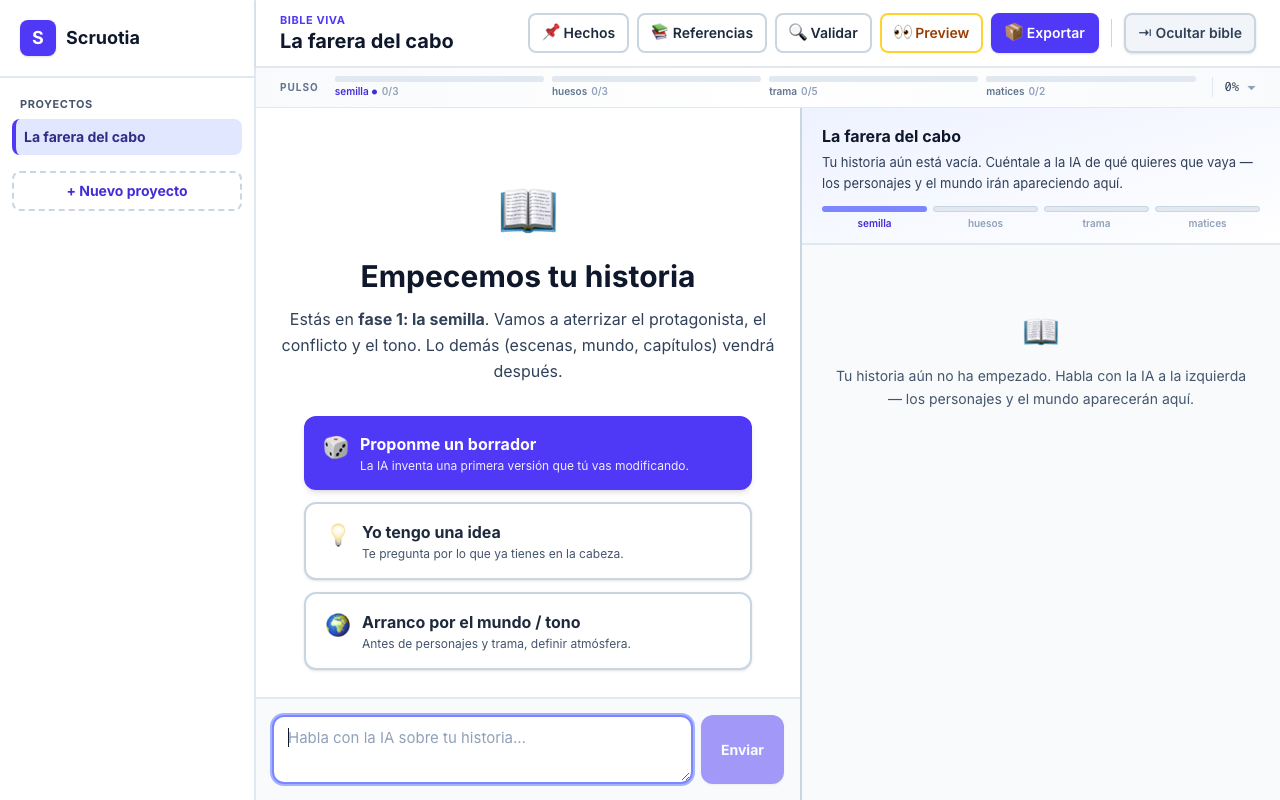
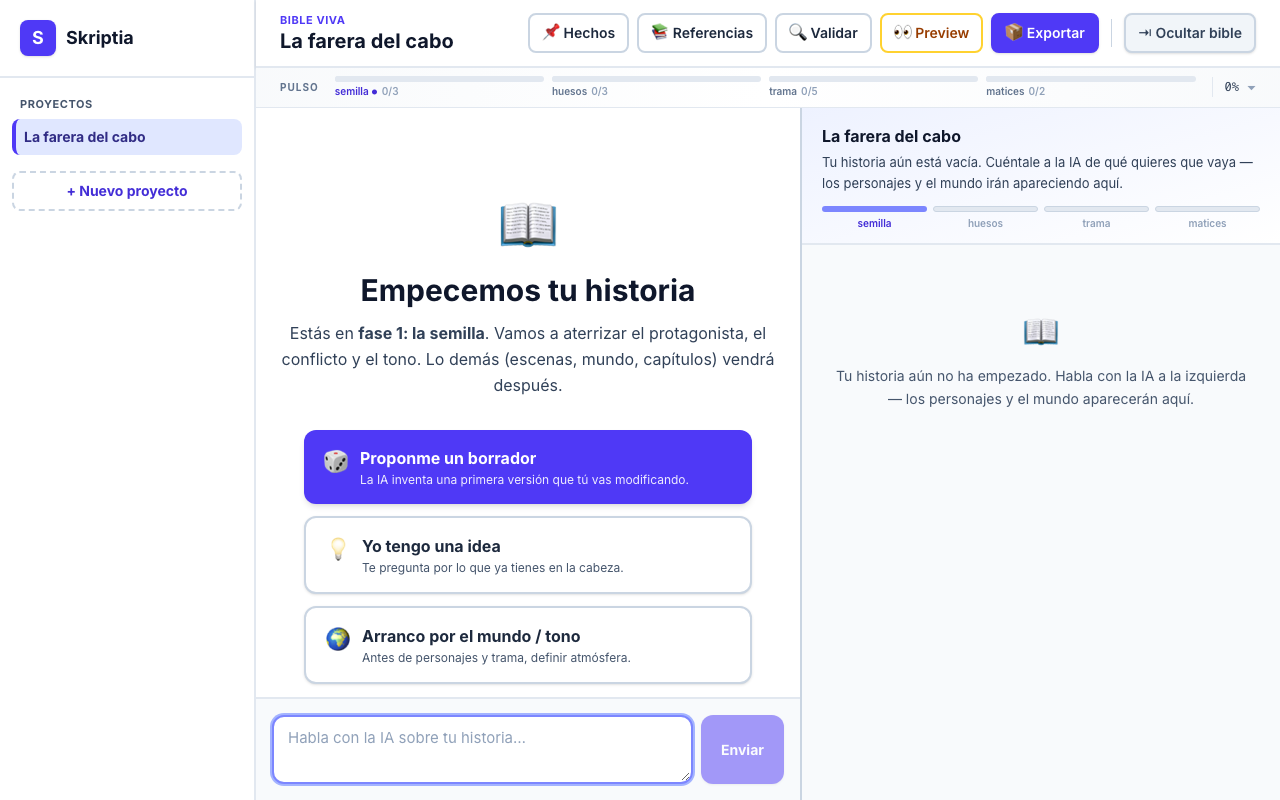
Rename project to Skriptia
Rename the app, fenced block protocol (~~~skriptia-*), drag-and-drop MIME
type and SKRIPTIA_PROJECTS_DIR env var, and refresh the README screenshot.

diff --git a/app/components/ChatColumn.tsx b/app/components/ChatColumn.tsx
@@ -57,9 +57,9 @@ function applyingSummary(c: { cards: number; patches: number; links: number; del
 function stripBlocks(text: string): string {
   let display = text
     // Status events injected by the server (applying / done / error).
-    .replace(/\n?~~~scruotia-status\n[\s\S]*?\n~~~\n?/g, '')
+    .replace(/\n?~~~skriptia-status\n[\s\S]*?\n~~~\n?/g, '')
     // Fenced protocol (preferred since v4).
-    .replace(/(?:^|\n)\s*~~~\s*scruotia-(?:card|patch|link|delete|fact|suggest)\b[\s\S]*?\n\s*~~~(?=\s*(?:\n|$))/g, '')
+    .replace(/(?:^|\n)\s*~~~\s*skriptia-(?:card|patch|link|delete|fact|suggest)\b[\s\S]*?\n\s*~~~(?=\s*(?:\n|$))/g, '')
     // Legacy <<<…>>> protocol (tolerant to 2+ chevrons).
     .replace(/<{2,}\s*CARD\s*:\s*[^:/<>\n]+?\s*:\s*[^:/<>\n]+?\s*>{2,}[\s\S]*?<{2,}\s*END\s*>{2,}/g, '')
     .replace(/<{2,}\s*PATCH\s*:\s*[^:/<>\n]+?\s*:\s*[^:/<>\n]+?\s*>{2,}[\s\S]*?<{2,}\s*END\s*>{2,}/g, '')
@@ -70,7 +70,7 @@ function stripBlocks(text: string): string {
     .replace(/<{2,}\s*DOC(?:\s*:\s*[^<>]+?)?\s*>{2,}[\s\S]*?<{2,}\s*END\s*>{2,}/g, '');
   // While streaming, also hide a trailing unterminated block start so the
   // user never sees half a block. Both fence opener and legacy start.
-  const openFence = display.search(/(?:^|\n)\s*~~~\s*scruotia-/);
+  const openFence = display.search(/(?:^|\n)\s*~~~\s*skriptia-/);
   if (openFence !== -1 && !/\n\s*~~~\s*(?:\n|$)/.test(display.slice(openFence + 1))) {
     display = display.slice(0, openFence);
   }
@@ -140,11 +140,11 @@ export default function ChatColumn({
     const reader = res.body.getReader();
     const decoder = new TextDecoder();
     let acc = '';
-    // Status events injected by the server: ~~~scruotia-status\n{json}\n~~~
+    // Status events injected by the server: ~~~skriptia-status\n{json}\n~~~
     // When we see "applying" we free the input so the user can type the next
     // turn while disk writes finish. When we see "done" we pop the success
     // pills with the real touched ids.
-    const STATUS_RE = /\n?~~~scruotia-status\n([\s\S]*?)\n~~~\n?/g;
+    const STATUS_RE = /\n?~~~skriptia-status\n([\s\S]*?)\n~~~\n?/g;
     let serverTouched: string[] = [];
     let serverDeletes: string[] = [];
     let serverFacts = 0;
@@ -192,7 +192,7 @@ export default function ChatColumn({
     // consistent with extractEntityUpdates() (whitespace + accents allowed).
     const cardMatches = [...acc.matchAll(/<{2,}\s*CARD\s*:\s*([^:/<>\n]+?)\s*:\s*([^:/<>\n]+?)\s*>{2,}/g)];
     const patchMatches = [...acc.matchAll(/<{2,}\s*PATCH\s*:\s*([^:/<>\n]+?)\s*:\s*([^:/<>\n]+?)\s*>{2,}/g)];
-    const fenceMatches = [...acc.matchAll(/(?:^|\n)\s*~~~\s*scruotia-(card|patch)\s+([^:\s]+?)\s*:\s*([^\s\n]+)/g)];
+    const fenceMatches = [...acc.matchAll(/(?:^|\n)\s*~~~\s*skriptia-(card|patch)\s+([^:\s]+?)\s*:\s*([^\s\n]+)/g)];
     const normalize = (s: string) => s.toLowerCase().normalize('NFD').replace(/[̀-ͯ]/g, '').replace(/[^a-z0-9]+/g, '-').replace(/^-+|-+$/g, '');
     const touched = Array.from(new Set([
       ...cardMatches.map(m => `${normalize(m[1])}/${normalize(m[2])}`),
@@ -201,12 +201,12 @@ export default function ChatColumn({
     ].filter(s => s !== '/')));
     const deletes = Array.from(new Set([
       ...[...acc.matchAll(/<{2,}\s*DELETE\s*:\s*([^:/<>\n]+?)\s*\/\s*([^:/<>\n]+?)\s*>{2,}/g)].map(m => `${normalize(m[1])}/${normalize(m[2])}`),
-      ...[...acc.matchAll(/(?:^|\n)\s*~~~\s*scruotia-delete\s+([^/\s]+)\/([^\s\n]+)/g)].map(m => `${normalize(m[1])}/${normalize(m[2])}`),
+      ...[...acc.matchAll(/(?:^|\n)\s*~~~\s*skriptia-delete\s+([^/\s]+)\/([^\s\n]+)/g)].map(m => `${normalize(m[1])}/${normalize(m[2])}`),
     ].filter(s => s !== '/')));
     const factCount = [...acc.matchAll(/<{2,}\s*FACT\s*>{2,}/g)].length
-      + [...acc.matchAll(/(?:^|\n)\s*~~~\s*scruotia-fact\b/g)].length;
+      + [...acc.matchAll(/(?:^|\n)\s*~~~\s*skriptia-fact\b/g)].length;
     const legacySuggestions = [...acc.matchAll(/<{2,}\s*SUGGEST\s*>{2,}([\s\S]*?)<{2,}\s*END\s*>{2,}/g)];
-    const fenceSuggestions = [...acc.matchAll(/(?:^|\n)\s*~~~\s*scruotia-suggest\b[^\n]*\n([\s\S]*?)\n\s*~~~/g)];
+    const fenceSuggestions = [...acc.matchAll(/(?:^|\n)\s*~~~\s*skriptia-suggest\b[^\n]*\n([\s\S]*?)\n\s*~~~/g)];
     const suggestionList: Suggestion[] = [...legacySuggestions, ...fenceSuggestions]
       .map(m => m[1].trim())
       .filter(Boolean)

diff --git a/app/api/chat/route.ts b/app/api/chat/route.ts
@@ -207,7 +207,7 @@ Usamos **fences markdown** (\`~~~\`) para todos los bloques. Es lo más robusto:
 
 ═══ CARD — crear o reemplazar una entidad ═══
 
-~~~scruotia-card type:slug
+~~~skriptia-card type:slug
 name=Nombre legible
 icon=emoji opcional
 ---
@@ -221,7 +221,7 @@ icon=emoji opcional
 
 ═══ PATCH — modificar solo algunos campos sin tocar el resto ═══
 
-~~~scruotia-patch type:slug
+~~~skriptia-patch type:slug
 Want=Que la dejen en paz
 Need=Aceptar que necesita a alguien
 ~~~
@@ -238,7 +238,7 @@ REGLAS:
    - \`__trailing\` = prosa libre tras los bullets
 4. Para valores MULTI-LÍNEA usa heredoc \`<<<\` … \`>>>\` (cada delimitador en su línea):
 
-~~~scruotia-patch personaje:mara
+~~~skriptia-patch personaje:mara
 backstory=<<<
 Antes de que Tito llegara al faro,
 Mara nunca había enseñado a nadie el oficio.
@@ -255,7 +255,7 @@ Cuándo PATCH vs CARD:
 
 ═══ LINK — vincular dos entidades ═══
 
-~~~scruotia-link personaje/mara lugar/faro
+~~~skriptia-link personaje/mara lugar/faro
 label=vive en
 ~~~
 
@@ -263,18 +263,18 @@ label=vive en
 
 ═══ DELETE — borrar una entidad creada por error ═══
 
-~~~scruotia-delete personaje/x
+~~~skriptia-delete personaje/x
 ~~~
 
 ═══ FACT — hecho INMUTABLE del proyecto (edades, distancias, reglas que nunca cambian) ═══
 
-~~~scruotia-fact
+~~~skriptia-fact
 Mara tiene 64 años cuando empieza la novela.
 ~~~
 
 ═══ SUGGEST — preguntas con respuesta cliclable (la UI las pinta como botones) ═══
 
-~~~scruotia-suggest
+~~~skriptia-suggest
 ¿Qué oficio tiene la protagonista?
 - Farera
 - Cartógrafa
@@ -282,7 +282,7 @@ Mara tiene 64 años cuando empieza la novela.
 - Relojera
 ~~~
 
-~~~scruotia-suggest
+~~~skriptia-suggest
 Profundizar en el conflicto central
 ~~~
 
@@ -329,7 +329,7 @@ ${phaseBlock}${factsBlock}${lockedNote}${stateBlock}${focusBlock}${coachingHints
   // strips these markers from display (see stripBlocks in ChatColumn).
   const emitStatus = (controller: ReadableStreamDefaultController, phase: string, data: Record<string, unknown> = {}) => {
     const payload = JSON.stringify({ phase, ...data });
-    controller.enqueue(encoder.encode(`\n~~~scruotia-status\n${payload}\n~~~\n`));
+    controller.enqueue(encoder.encode(`\n~~~skriptia-status\n${payload}\n~~~\n`));
   };
 
   const stream = new ReadableStream({
@@ -386,7 +386,7 @@ ${phaseBlock}${factsBlock}${lockedNote}${stateBlock}${focusBlock}${coachingHints
           const existing = existingMap.get(key);
           const incomingBody = (c.body ?? '').trim();
           // GUARD: never let an empty CARD body wipe out a populated entity.
-          // The AI sometimes emits ~~~scruotia-card type:slug~~~ with no body
+          // The AI sometimes emits ~~~skriptia-card type:slug~~~ with no body
           // — that used to silently overwrite previous content with "". From
           // now on, if there's nothing new and there IS something old, skip
           // (we still update name/icon if those changed).

diff --git a/app/m/[slug]/MobileChat.tsx b/app/m/[slug]/MobileChat.tsx
@@ -60,7 +60,7 @@ export default function MobileChat({ slug, title, entityCount, initialMessages }
     const reader = res.body.getReader();
     const decoder = new TextDecoder();
     let acc = '';
-    const STATUS_RE = /\n?~~~scruotia-status\n([\s\S]*?)\n~~~\n?/g;
+    const STATUS_RE = /\n?~~~skriptia-status\n([\s\S]*?)\n~~~\n?/g;
     while (true) {
       const { done, value } = await reader.read();
       if (done) break;
@@ -241,7 +241,7 @@ export default function MobileChat({ slug, title, entityCount, initialMessages }
             <header className="px-4 py-3 border-b-2 border-slate-200 flex items-center gap-2">
               <div className="w-9 h-9 rounded-xl bg-indigo-600 text-white font-black flex items-center justify-center">S</div>
               <div className="flex-1">
-                <div className="text-[10px] uppercase tracking-widest text-indigo-600 font-bold">Scruotia mobile</div>
+                <div className="text-[10px] uppercase tracking-widest text-indigo-600 font-bold">Skriptia mobile</div>
                 <div className="text-sm font-bold text-slate-900">{title}</div>
               </div>
               <button onClick={() => setDrawer(false)} className="w-8 h-8 rounded-lg hover:bg-slate-100 text-slate-500 flex items-center justify-center">✕</button>
@@ -265,15 +265,15 @@ export default function MobileChat({ slug, title, entityCount, initialMessages }
 
 function stripBlocks(text: string): string {
   let display = text
-    .replace(/\n?~~~scruotia-status\n[\s\S]*?\n~~~\n?/g, '')
-    .replace(/(?:^|\n)\s*~~~\s*scruotia-(?:card|patch|link|delete|fact|suggest)\b[\s\S]*?\n\s*~~~(?=\s*(?:\n|$))/g, '')
+    .replace(/\n?~~~skriptia-status\n[\s\S]*?\n~~~\n?/g, '')
+    .replace(/(?:^|\n)\s*~~~\s*skriptia-(?:card|patch|link|delete|fact|suggest)\b[\s\S]*?\n\s*~~~(?=\s*(?:\n|$))/g, '')
     .replace(/<{2,}\s*CARD\s*:\s*[^:/<>\n]+?\s*:\s*[^:/<>\n]+?\s*>{2,}[\s\S]*?<{2,}\s*END\s*>{2,}/g, '')
     .replace(/<{2,}\s*PATCH\s*:\s*[^:/<>\n]+?\s*:\s*[^:/<>\n]+?\s*>{2,}[\s\S]*?<{2,}\s*END\s*>{2,}/g, '')
     .replace(/<{2,}\s*LINK\s*:[^>]*?>{2,}[\s\S]*?<{2,}\s*END\s*>{2,}/g, '')
     .replace(/<{2,}\s*DELETE\s*:[^>]*?>{2,}[\s\S]*?<{2,}\s*END\s*>{2,}/g, '')
     .replace(/<{2,}\s*FACT\s*>{2,}[\s\S]*?<{2,}\s*END\s*>{2,}/g, '')
     .replace(/<{2,}\s*SUGGEST\s*>{2,}[\s\S]*?<{2,}\s*END\s*>{2,}/g, '');
-  const openFence = display.search(/(?:^|\n)\s*~~~\s*scruotia-/);
+  const openFence = display.search(/(?:^|\n)\s*~~~\s*skriptia-/);
   if (openFence !== -1 && !/\n\s*~~~\s*(?:\n|$)/.test(display.slice(openFence + 1))) {
     display = display.slice(0, openFence);
   }

diff --git a/lib/__tests__/doc-updates.test.ts b/lib/__tests__/doc-updates.test.ts
@@ -313,11 +313,11 @@ line
   });
 });
 
-describe('extractEntityUpdates — fenced protocol (~~~scruotia-*)', () => {
+describe('extractEntityUpdates — fenced protocol (~~~skriptia-*)', () => {
   it('parses a fenced CARD with attrs and body', () => {
     const t = `Genial.
 
-~~~scruotia-card personaje:mara
+~~~skriptia-card personaje:mara
 name=Mara
 icon=🧭
 ---
@@ -336,7 +336,7 @@ Listo.`;
   });
 
   it('parses a fenced PATCH with multiple fields', () => {
-    const t = `~~~scruotia-patch personaje:bruno
+    const t = `~~~skriptia-patch personaje:bruno
 Want=Finir el mapa de la isla
 Need=Atreverse a volver
 Arco=positivo — de exiliada a guía
@@ -351,7 +351,7 @@ Arco=positivo — de exiliada a guía
   });
 
   it('parses fenced PATCH with heredoc value', () => {
-    const t = `~~~scruotia-patch personaje:bruno
+    const t = `~~~skriptia-patch personaje:bruno
 __trailing=<<<
 Relojero que arregla todo menos su propio reloj.
 Cada noche da cuerda a uno distinto.
@@ -366,7 +366,7 @@ arco=positivo
   });
 
   it('parses fenced LINK with label', () => {
-    const t = `~~~scruotia-link personaje/mara lugar/faro
+    const t = `~~~skriptia-link personaje/mara lugar/faro
 label=vive en
 ~~~`;
     const r = extractEntityUpdates(t);
@@ -375,14 +375,14 @@ label=vive en
   });
 
   it('parses fenced DELETE with ref on args', () => {
-    const t = `~~~scruotia-delete personaje/x
+    const t = `~~~skriptia-delete personaje/x
 ~~~`;
     const r = extractEntityUpdates(t);
     expect(r.deletes).toEqual([{ type: 'personaje', slug: 'x' }]);
   });
 
   it('parses fenced FACT', () => {
-    const t = `~~~scruotia-fact
+    const t = `~~~skriptia-fact
 Mara tiene 64 años cuando empieza la novela.
 ~~~`;
     const r = extractEntityUpdates(t);
@@ -390,7 +390,7 @@ Mara tiene 64 años cuando empieza la novela.
   });
 
   it('parses fenced SUGGEST with options', () => {
-    const t = `~~~scruotia-suggest
+    const t = `~~~skriptia-suggest
 ¿Qué tipo de antagonista?
 - humano cercano
 - fuerza natural
@@ -404,7 +404,7 @@ Mara tiene 64 años cuando empieza la novela.
   });
 
   it('legacy <<<…>>> and fenced ~~~ coexist in the same turn', () => {
-    const t = `~~~scruotia-card personaje:a
+    const t = `~~~skriptia-card personaje:a
 name=A
 ---
 body A
@@ -422,7 +422,7 @@ body B
   it('strips fenced blocks from cleanedText', () => {
     const t = `Texto antes.
 
-~~~scruotia-patch personaje:x
+~~~skriptia-patch personaje:x
 Want=Y
 ~~~
 

diff --git a/lib/doc-updates.ts b/lib/doc-updates.ts
@@ -46,35 +46,35 @@ const SUGGEST_RE = /<{2,}\s*SUGGEST\s*>{2,}([\s\S]*?)<{2,}\s*END\s*>{2,}/g;
 // each fence may contain anything except a line starting with `~~~`.
 //
 // Examples:
-//   ~~~scruotia-card personaje:mara
+//   ~~~skriptia-card personaje:mara
 //   name=Mara
 //   icon=🧭
 //   ---
 //   markdown body
 //   ~~~
 //
-//   ~~~scruotia-patch personaje:mara
+//   ~~~skriptia-patch personaje:mara
 //   Want=Que la dejen en paz
 //   Need=Soltar el luto
 //   ~~~
 //
-//   ~~~scruotia-link personaje/mara lugar/faro
+//   ~~~skriptia-link personaje/mara lugar/faro
 //   label=vive en
 //   ~~~
 //
-//   ~~~scruotia-delete personaje/x
+//   ~~~skriptia-delete personaje/x
 //   ~~~
 //
-//   ~~~scruotia-fact
+//   ~~~skriptia-fact
 //   Mara tiene 64 años cuando empieza la novela.
 //   ~~~
 //
-//   ~~~scruotia-suggest
+//   ~~~skriptia-suggest
 //   ¿Qué tipo de antagonista?
 //   - humano cercano
 //   - fuerza natural
 //   ~~~
-const FENCE_RE = /(?:^|\n)\s*~~~\s*scruotia-(card|patch|link|delete|fact|suggest)\b([^\n]*)\n?([\s\S]*?)\n?\s*~~~(?=\s*(?:\n|$))/g;
+const FENCE_RE = /(?:^|\n)\s*~~~\s*skriptia-(card|patch|link|delete|fact|suggest)\b([^\n]*)\n?([\s\S]*?)\n?\s*~~~(?=\s*(?:\n|$))/g;
 
 function normalizeId(raw: string): string {
   return raw

diff --git a/app/components/StoryMap.tsx b/app/components/StoryMap.tsx
@@ -289,7 +289,7 @@ function ChapterCard({
       onDrop={(e) => {
         e.preventDefault();
         setDragOver(false);
-        const escenaSlug = e.dataTransfer.getData('text/scruotia-escena');
+        const escenaSlug = e.dataTransfer.getData('text/skriptia-escena');
         if (escenaSlug) onMoveScene(escenaSlug, cap.slug);
       }}
       className={`bg-pink-50 border-2 rounded-xl p-3 transition ${dragOver ? 'border-pink-500 ring-4 ring-pink-200' : 'border-pink-200 hover:border-pink-300'}`}
@@ -324,7 +324,7 @@ function SceneRow({ escena, busy, onOpenEntity }: { escena: Entity; busy: boolea
   return (
     <div
       draggable={!busy}
-      onDragStart={(e) => { e.dataTransfer.setData('text/scruotia-escena', escena.slug); e.dataTransfer.effectAllowed = 'move'; }}
+      onDragStart={(e) => { e.dataTransfer.setData('text/skriptia-escena', escena.slug); e.dataTransfer.effectAllowed = 'move'; }}
       onClick={() => onOpenEntity(escena)}
       className={`bg-white border border-slate-200 rounded-md px-2 py-1.5 text-[11px] text-slate-700 hover:border-indigo-300 transition flex items-center gap-1.5 ${busy ? 'opacity-50 cursor-wait' : 'cursor-grab active:cursor-grabbing'}`}
       title={`${escena.name}${beat ? ` · ${beat}` : ''}`}

diff --git a/app/api/inline-ai/route.ts b/app/api/inline-ai/route.ts
@@ -59,7 +59,7 @@ export async function POST(req: NextRequest) {
     ? ` (campo especial: ${body.fieldKey === '__intro' ? 'la frase-tagline de la ficha' : body.fieldKey === '__pendiente' ? 'el "Pendiente: ..." al final' : 'la prosa libre tras los bullets'})`
     : '';
 
-  const systemPrompt = `Eres asistente narrativo de Scruotia. Recibirás una entidad de outline y un campo específico de su ficha. Tu único trabajo es proponer un valor concreto para ESE campo, coherente con el resto de la entidad y con el tono general de la historia.
+  const systemPrompt = `Eres asistente narrativo de Skriptia. Recibirás una entidad de outline y un campo específico de su ficha. Tu único trabajo es proponer un valor concreto para ESE campo, coherente con el resto de la entidad y con el tono general de la historia.
 
 Reglas absolutas:
 - Emite EXACTAMENTE un bloque PATCH y nada más. Sin texto antes ni después.

diff --git a/lib/__tests__/raw-log.test.ts b/lib/__tests__/raw-log.test.ts
@@ -5,7 +5,7 @@ import os from 'node:os';
 import { logRawTurn, listRawTurns } from '../raw-log';
 
 async function tmpProject(): Promise<string> {
-  return fs.mkdtemp(path.join(os.tmpdir(), 'scruotia-raw-'));
+  return fs.mkdtemp(path.join(os.tmpdir(), 'skriptia-raw-'));
 }
 
 describe('logRawTurn', () => {
@@ -55,7 +55,7 @@ describe('logRawTurn', () => {
 
   it('does not throw on writeFile errors (best-effort)', async () => {
     // Pass an unwritable parent (file masquerading as dir) — should swallow.
-    const fake = await fs.mkdtemp(path.join(os.tmpdir(), 'scruotia-fakeroot-'));
+    const fake = await fs.mkdtemp(path.join(os.tmpdir(), 'skriptia-fakeroot-'));
     await fs.writeFile(path.join(fake, '99-ai'), 'I am a file, not a dir');
     const result = await logRawTurn(fake, 'user', 'x');
     expect(result).toBe(null);

diff --git a/app/api/projects/[slug]/branches/route.ts b/app/api/projects/[slug]/branches/route.ts
@@ -59,7 +59,7 @@ export async function POST(req: NextRequest, ctx: { params: Promise<{ slug: stri
     ? getField(parseBody(entity.body), fieldKey)
     : entity.body;
 
-  const systemPrompt = `Eres asistente narrativo de Scruotia. Tu trabajo es proponer ${n} variantes distintas y bien diferenciadas del ${fieldKey ? `campo "${fieldKey}" de una entidad` : 'cuerpo completo de una entidad'}, para que el usuario elija.
+  const systemPrompt = `Eres asistente narrativo de Skriptia. Tu trabajo es proponer ${n} variantes distintas y bien diferenciadas del ${fieldKey ? `campo "${fieldKey}" de una entidad` : 'cuerpo completo de una entidad'}, para que el usuario elija.
 
 REGLAS ABSOLUTAS:
 - Emite EXACTAMENTE ${n} bloques <<<VARIANT:id:label>>>...<<<END>>>.

diff --git a/lib/__tests__/pulse.test.ts b/lib/__tests__/pulse.test.ts
@@ -8,7 +8,7 @@ import { listEntities, writeEntity } from '../entities';
 // Small invented fixture project, written to a temp dir so the test
 // exercises the real filesystem loader (listEntities) end to end.
 async function fixtureProject(): Promise<string> {
-  const root = await fs.mkdtemp(path.join(os.tmpdir(), 'scruotia-pulse-'));
+  const root = await fs.mkdtemp(path.join(os.tmpdir(), 'skriptia-pulse-'));
   const base = { status: 'drafting' as const, created: '2026-05-16T00:00:00Z', updated: '2026-05-16T00:00:00Z' };
   await writeEntity(root, {
     ...base, type: 'personaje', slug: 'mara', name: 'Mara',

diff --git a/app/page.tsx b/app/page.tsx
@@ -9,7 +9,7 @@ export default function Home() {
           <div className="w-16 h-16 rounded-2xl bg-indigo-600 text-white text-2xl font-bold flex items-center justify-center mx-auto mb-4">
             S
           </div>
-          <h1 className="text-3xl font-semibold text-slate-900 mb-2">Scruotia</h1>
+          <h1 className="text-3xl font-semibold text-slate-900 mb-2">Skriptia</h1>
           <p className="text-slate-500">
             Selecciona un proyecto del sidebar o crea uno nuevo para empezar el outline de tu novela.
           </p>

diff --git a/lib/config.ts b/lib/config.ts
@@ -2,8 +2,8 @@ import path from 'node:path';
 
 /**
  * Where project folders live. Defaults to `./projects` next to the app;
- * set SCRUOTIA_PROJECTS_DIR to keep your stories somewhere else.
+ * set SKRIPTIA_PROJECTS_DIR to keep your stories somewhere else.
  */
-export const PROJECTS_ROOT = process.env.SCRUOTIA_PROJECTS_DIR
-  ? path.resolve(process.env.SCRUOTIA_PROJECTS_DIR)
+export const PROJECTS_ROOT = process.env.SKRIPTIA_PROJECTS_DIR
+  ? path.resolve(process.env.SKRIPTIA_PROJECTS_DIR)
   : path.join(process.cwd(), 'projects');
